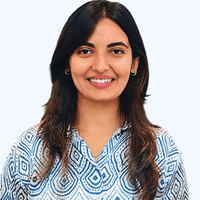
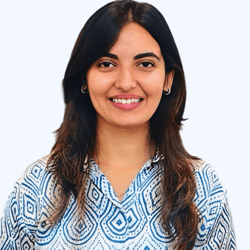
fix: Improve mobile profile image quality - 250x250 resolution with better compression balance

diff --git a/src/components/About.jsx b/src/components/About.jsx
@@ -189,7 +189,8 @@ const About = () => {
               <img 
                 src="/profileND.png" 
                 alt="Profile" 
-                className="rounded-3xl w-48 h-48 sm:w-64 sm:h-64 md:w-72 md:h-72 lg:w-80 lg:h-80 object-cover border border-slate-700 shadow-lg" 
+                className="rounded-3xl w-48 h-48 sm:w-64 sm:h-64 md:w-72 md:h-72 lg:w-80 lg:h-80 object-cover border border-slate-700 shadow-lg"
+                style={{ imageRendering: 'auto' }}
                 loading="lazy"
               />
             </picture>
